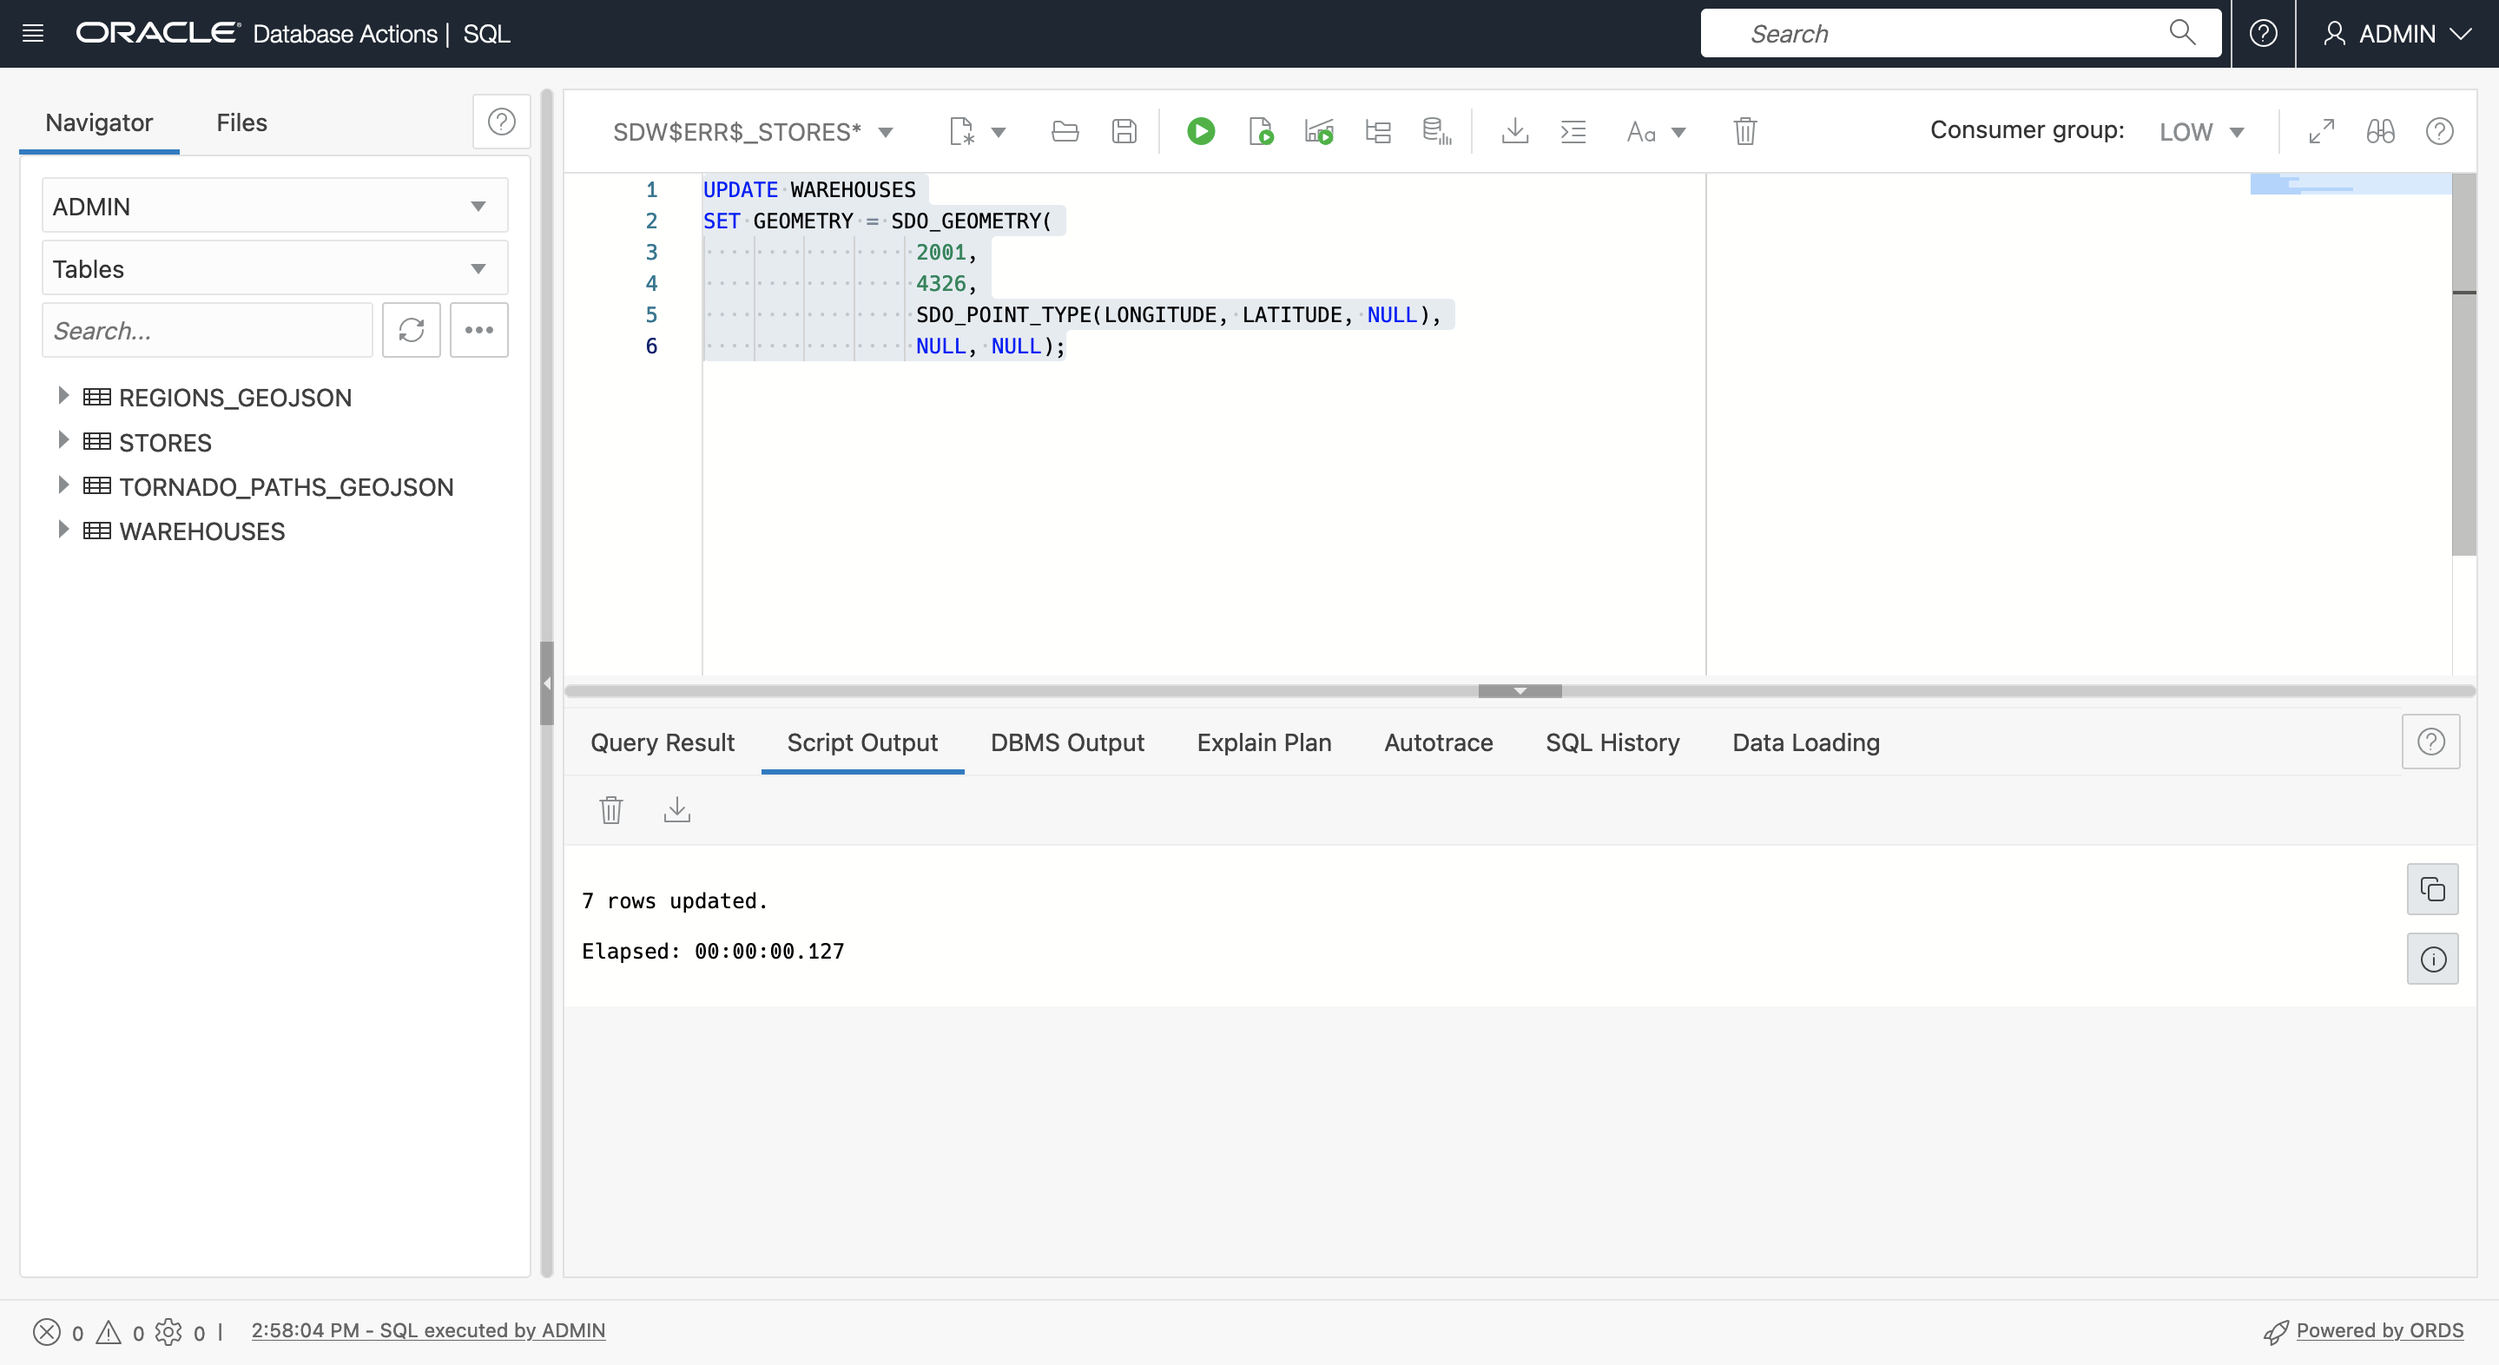
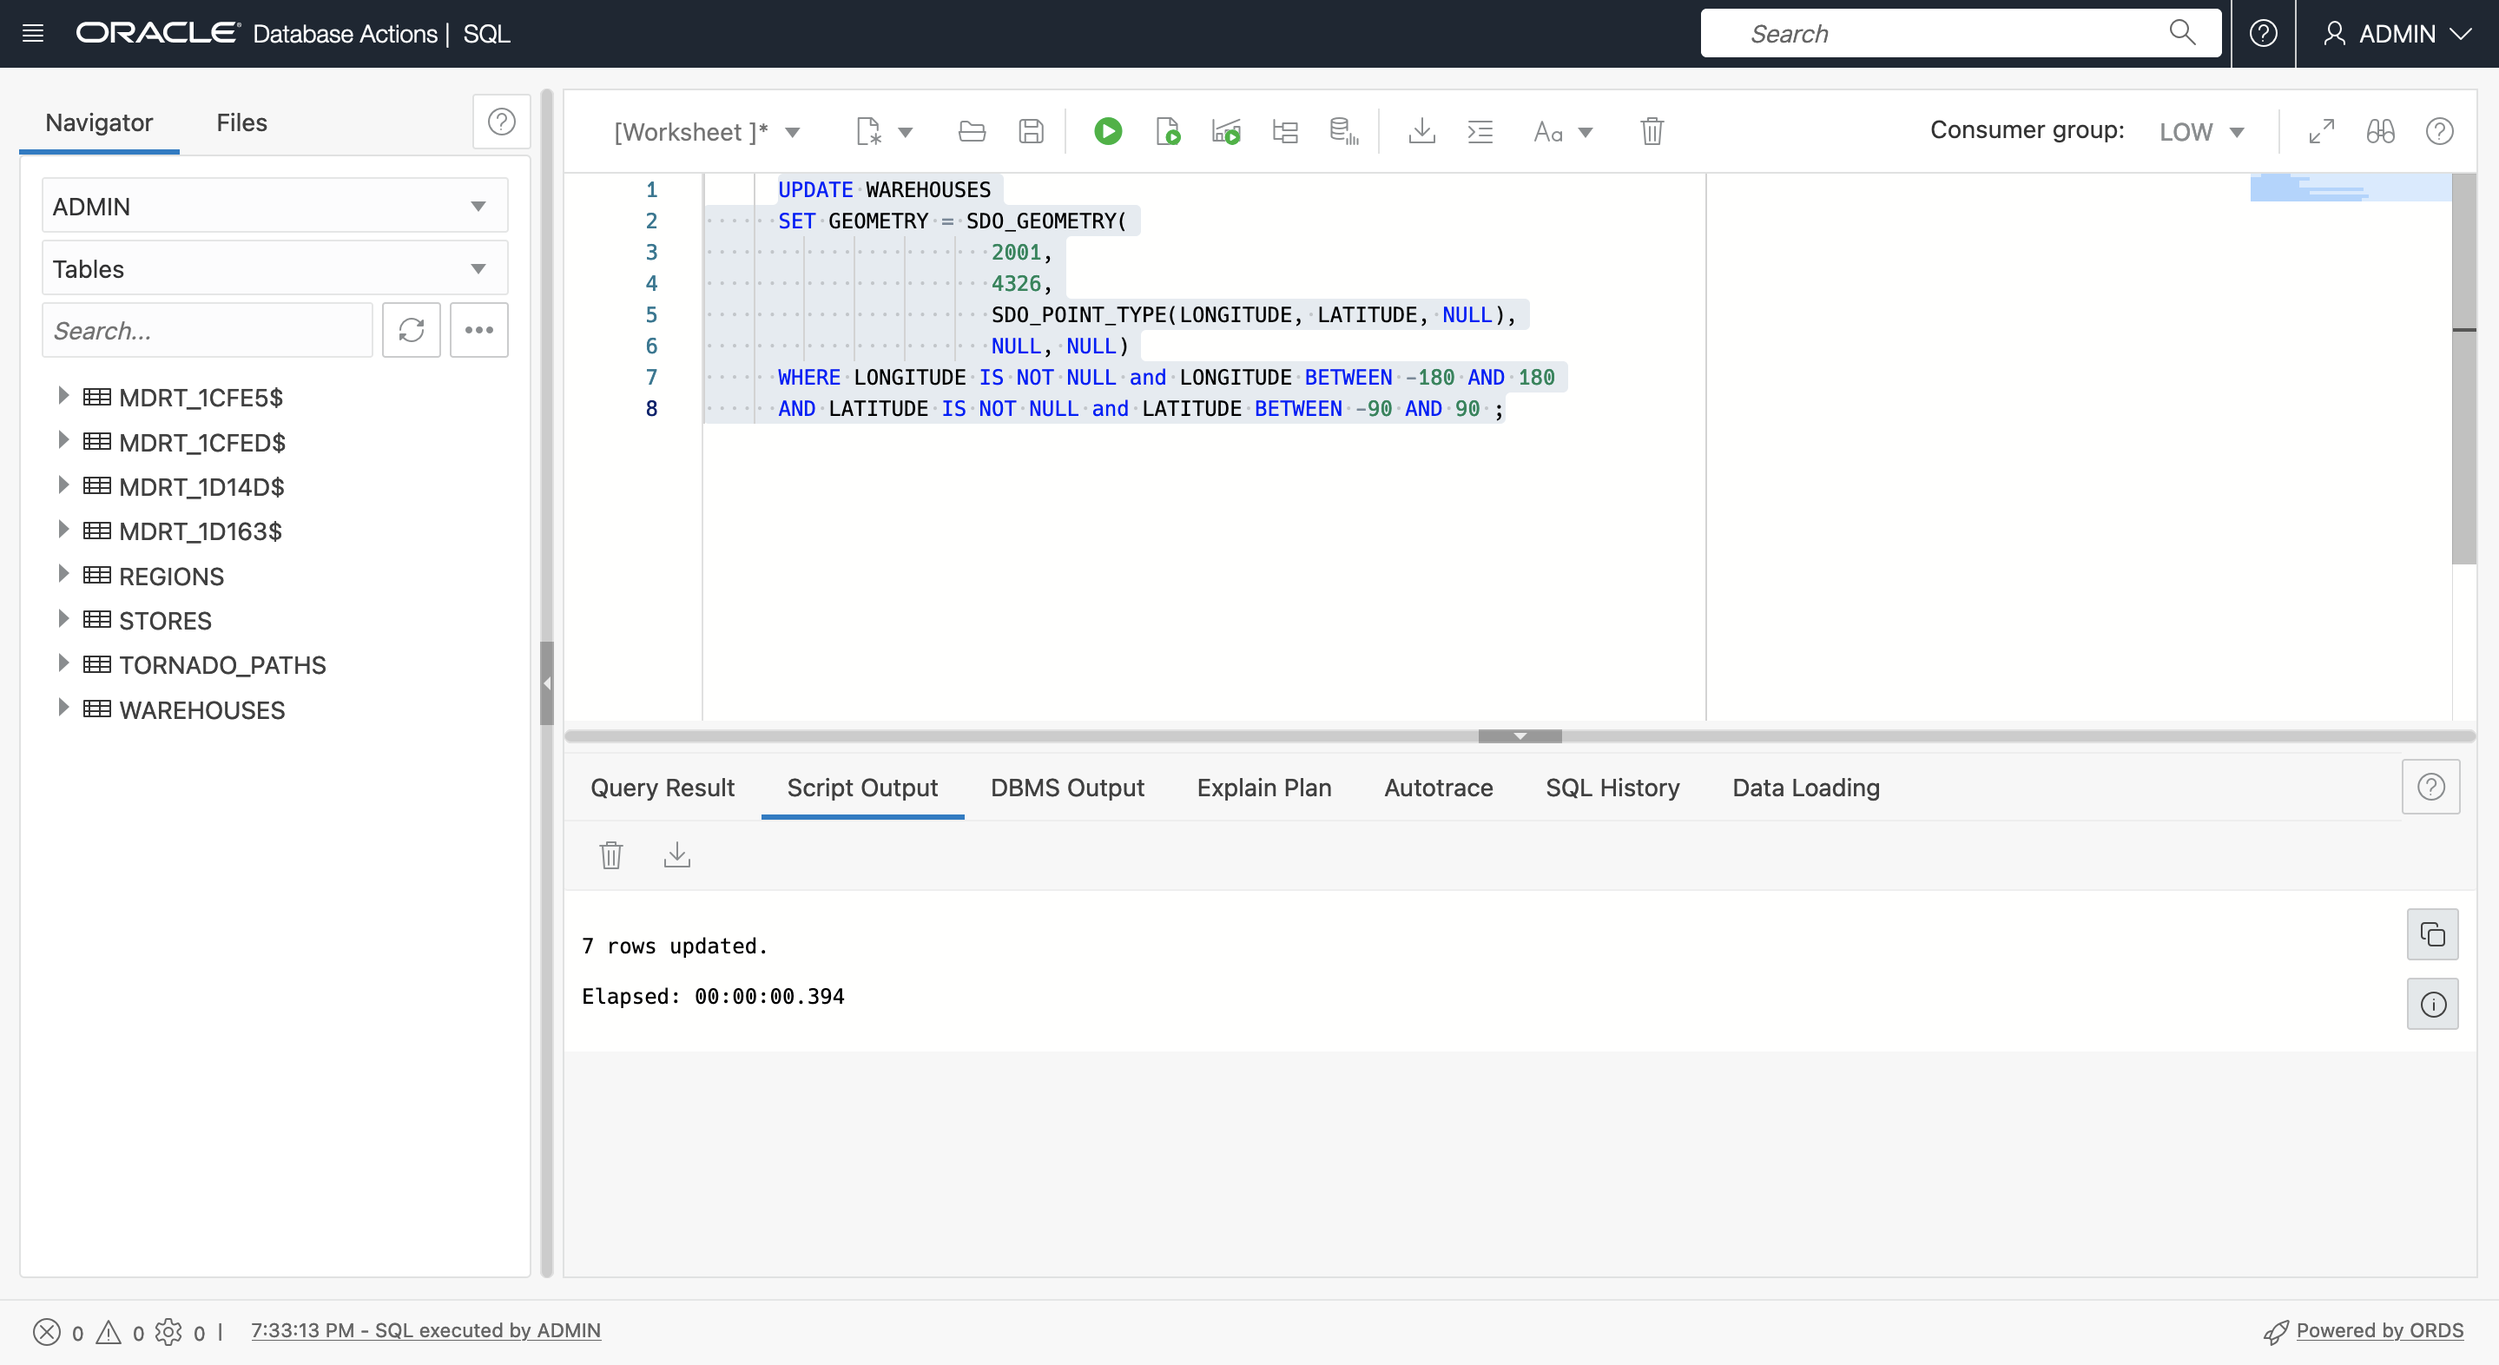
updates to create-data-adb
updates to create-data-adb

diff --git a/spatial/create-spatial-data-adb/create-spatial-data-adb.md b/spatial/create-spatial-data-adb/create-spatial-data-adb.md
@@ -74,8 +74,13 @@ SDO_GEOMETRY(
 )
 ```
 
+The general workflow for creating spatial data is to generate geometries and then create a spatial index for optimal performance. Prior to creating a spatial index, a row of spatial metadata is inserted which is used by the spatial index to ensure data consistency.
 
- Oracle Spatial also includes a set of built-in functions to convert between this native spatial data type and other common formats. One such common format is GeoJSON which is the most common format for  integration with developer client libraries.
+For point data, the most common scenario is to start with data including coordinates representing point locations. The data may be configured either by creating and populating a new geometry column (column with type SDO_GEOMETRY), or creating a function that creates geometries from coordinates, and then creating a spatial index on that function. Both options have their associated use cases, and you will use both methods to gain familiarity. 
+
+For lines and polygons, it is most common to load data from convert common formats (such as GeoJSON) to a table with a geometry column. You will do this for the regions and tornado paths.
+
+Oracle Spatial also includes a set of built-in functions to convert between this native spatial data type and other common formats. One such common format is GeoJSON which is the most common format for  integration with developer client libraries.
 
 
 ### Objectives
@@ -131,30 +136,30 @@ You begin by loading data for warehouses and stores from CSV files that include 
 
    ![Image alt text](images/create-data-00f.png)
 
-  These are the data that you will load, configure, and perform spatial analysis on. Once you have reviewed the maps you can close the tabs.
+  These are the data that you will load, configure, and perform spatial analysis on. Once you have reviewed the maps you can close the geojson.io tabs.
 
-   1. Next you load the files to database tables. Navigate to SQL Developer Web. From the action menu next to Search, select **Data Loading > Upload Data Into New Table** . 
+3. Next you load the files to database tables. Navigate to SQL Developer Web. From the action menu next to Search, select **Data Loading > Upload Data Into New Table** . 
    
    ![Image alt text](images/create-data-01.png)
 
-   1. Drag and drop **stores.csv** into the data loading region. You may also click **Select files** to navigate to the files.
+4. Drag and drop **stores.csv** into the data loading region.  (You may also click **Select files** to navigate to the files. If you do so then you will need to select the option to **Show all files**.)
    
    ![Image alt text](images/create-data-02.png)
 
-   1. Preview the data, observing that the data contains longitude, latitude coordinates for each store. Click **Next** to continue.
+5. Preview the data, observing that the data contains longitude, latitude coordinates for each store. Click **Next** to continue.
    
    ![Image alt text](images/create-data-03.png)
 
-   1. Update the column type for POSTAL_CODE to **VARCHAR2** and then click **Next** to continue.
+6. Update the column type for POSTAL_CODE to **VARCHAR2** and then click **Next** to continue.
    
    ![Image alt text](images/create-data-04.png)
 
   
-   1. Click **Finish**. The table will then be created.
+7. Click **Finish**. The table will then be created.
    
    ![Image alt text](images/create-data-05.png)
 
-   1.  Observe that data is loaded with no failed rows (i.e., no errors). SQL Developer Web automatically creates a table for each data load to store loading errors. In this workshop you can drop these tables since the data will load without errors.
+8.  Observe that data is loaded with no failed rows (i.e., no errors). SQL Developer Web automatically creates a table for each data load to store loading errors. In this workshop you can drop these tables since the data will load without errors.
 
    Enter and run following command to drop the errors table for STORES.
 
@@ -166,11 +171,11 @@ You begin by loading data for warehouses and stores from CSV files that include 
 
    ![Image alt text](images/create-data-06.png)
 
-11. Repeat the previous steps to upload **warehouses.csv**, accepting all defaults. Observe that the data contains longitude, latitude coordinates for each warehouse. 
+9. Repeat the previous steps to upload **warehouses.csv**, accepting all defaults. Observe that the data contains longitude, latitude coordinates for each warehouse. 
    
   ![Image alt text](images/create-data-07.png)
    
-2. When complete, observe there are no failed rows. 
+10. When complete, observe there are no failed rows. 
 
    Enter and run following command to drop the errors table for WAREHOUSES.
 
@@ -183,24 +188,24 @@ You begin by loading data for warehouses and stores from CSV files that include 
    ![Image alt text](images/create-data-08.png)
 
 
-   1. Repeat the data load process, this time loading the file **REGIONS.geojson**.
+11. Repeat the data load process, this time loading the file **REGIONS.geojson**.
 
       ![Image alt text](images/create-data-09.png)
 
 
-   2. Observe the data preview shows two columns, **type** and **features**. As a JSON format, GeoJSON is comprised of key:value pairs. Loading JSON from a SQL Worksheet in SQL Developer Web automatically creates columns for the top level keys. In the case of GeoJSON, the top level keys are **type** and **features**, where **features** contains ar array of all the individual spatial items.  Click **Next**.
+12. Observe the data preview shows two columns, **type** and **features**. As a JSON format, GeoJSON is comprised of key:value pairs. Loading JSON from a SQL Worksheet in SQL Developer Web automatically creates columns for the top level keys. In the case of GeoJSON, the top level keys are **type** and **features**, where **features** contains ar array of all the individual spatial items.  Click **Next**.
 
       ![Image alt text](images/create-data-10.png)
 
-   3. Rename from destination table from to **REGIONS_GEOJSON** since you will be converting this from a GeoJSON document to a table that you will name **REGIONS**.   Click **Next**.
+13. Rename from destination table from to **REGIONS_GEOJSON** since you will be converting this from a GeoJSON document to a table that you will name **REGIONS**.   Click **Next**.
 
       ![Image alt text](images/create-data-11.png)
 
-   1. Click **Finish** to create the table and load the GeoJSON content.   ...expand on this...   
+14. Click **Finish** to create the table and load the GeoJSON content.   ...expand on this...   
 
       ![Image alt text](images/create-data-12.png)
 
-   2. When complete, observe there are no failed rows. 
+15. When complete, observe there are no failed rows. 
 
       Enter and run following command to drop the errors table for REGIONS_GEOJSON.
 
@@ -211,15 +216,15 @@ You begin by loading data for warehouses and stores from CSV files that include 
       ```
       ![Image alt text](images/create-data-13.png)
 
-   3. Next load **TORNADO_PATHS.geojson**.
+16. Next load **TORNADO_PATHS.geojson**.
       
       ![Image alt text](images/create-data-14.png)
 
-   4. Change the destination table name to **TORNADO\_PATHS\_GEOJSON**. 
+17. Change the destination table name to **TORNADO\_PATHS\_GEOJSON**. 
       
        ![Image alt text](images/create-data-15.png)
       
-   5. When complete, observe there are no failed rows. 
+18. When complete, observe there are no failed rows. 
 
       Enter and run following command to drop the errors table for REGIONS_GEOJSON.
 
@@ -231,16 +236,16 @@ You begin by loading data for warehouses and stores from CSV files that include 
 
       ![Image alt text](images/create-data-16.png)
 
-   6.  All 4 tables are now created and ready to be configured for Spatial. 
+19.  All 4 tables are now created and ready to be configured for Spatial. 
       
      ![Image alt text](images/create-data-17.png)
    
 
 ## Task 2: Configure Warehouses Table using Geometry Column
 
-Next ......
+Next you configure the WAREHOUSES table for Spatial by generating a geometry column from the coordinate columns.
 
-1. ...
+1. Begin by adding a geometry column (column with type SDO_GEOMETRY).
    
       ```
       <copy> 
@@ -252,7 +257,7 @@ Next ......
 
    ![Image alt text](images/create-data-18.png)
 
-2.  ... include check for valid coordinates...
+2.  Next, populate the geometry column for rows with valid coordinates (all of the rows in this case).
 
       ```
       <copy> 
@@ -261,28 +266,32 @@ Next ......
                        2001,
                        4326,
                        SDO_POINT_TYPE(LONGITUDE, LATITUDE, NULL),
-                       NULL, NULL);
+                       NULL, NULL)
+      WHERE LONGITUDE IS NOT NULL 
+      AND LONGITUDE BETWEEN -180 AND 180
+      AND LATITUDE IS NOT NULL 
+      AND LATITUDE BETWEEN -90 AND 90 ;
       </copy>
       ```
 
    ![Image alt text](images/create-data-19.png)
 
-3.  ...
+3.  Insert spatial metadata for the WAREHOUSES table.
 
       ```
       <copy> 
         INSERT INTO USER_SDO_GEOM_METADATA VALUES (
-            'WAREHOUSES',
-            'GEOMETRY',
+            'WAREHOUSES',  -- table name
+            'GEOMETRY',    -- geometry column name
             SDO_DIM_ARRAY(SDO_DIM_ELEMENT('X', 0, 0, 0.005),
                           SDO_DIM_ELEMENT('Y', 0, 0, 0.005)),
-            4326
+            4326           -- indicates longitude/latitude coordinates
         );
       </copy>
       ```
    ![Image alt text](images/create-data-20.png)
 
-3.  ...
+3. Finally, create a spatial index for the WAREHOUSES table.
 
       ```
       <copy> 
@@ -297,8 +306,7 @@ Next ......
    ![Image alt text](images/create-data-21.png)
 
 
-3.  ...MDRT tables...
-
+3.  After creating the spatial index, refresh the table listing. Creating a spatial index automatically creates a special system-managed table with a name having the format **MDRT_xxxx$**. Such tables are managed entirely by Spatial to support spatial indexes and should never be manually dropped. For database users they should be ignored.
       
    ![Image alt text](images/create-data-21a.png)
 
@@ -306,63 +314,74 @@ Next ......
 
 ## Task 3: Configure Stores Table using Function-based Spatial Index
 
-Next ......
+Next you configure the STORES table for Spatial. You could repeat the previous steps to create and index a new geometry column. Instead you will create a "function-based spatial index". With a function-based spatial index, instead of indexing a geometry column, you instead index geometries returned by a function. The benefit of this approach is that a new geometry column does not need to be added. For scenarios where adding a column is impractical or not desirable, this is the preferred approach.  Details can be found [here](https://docs.oracle.com/en/database/oracle/oracle-database/19/spatl/extending-spatial-indexing.html#GUID-CFB6B6DB-4B97-43D1-86A1-21C1BA853089).
 
-3.  ... ... include check for valid coordinates...
-
+1. The first step is to create a generic function that accepts coordinates and returns a geometry (i.e., a SDO\_GEOMETRY value). The function includes criteria so that a result is only returned for valid input coordinates.
+   
       ```
       <copy>
-        CREATE OR REPLACE FUNCTION GET_GEOMETRY (
+      CREATE OR REPLACE FUNCTION GET_GEOMETRY (
             IN_LONGITUDE NUMBER,
             IN_LATITUDE  NUMBER
         ) RETURN SDO_GEOMETRY
             DETERMINISTIC PARALLEL_ENABLE
         IS
         BEGIN
+         IF (IN_LONGITUDE IS NOT NULL 
+            AND IN_LONGITUDE BETWEEN -180 AND 180
+            AND IN_LATITUDE IS NOT NULL 
+            AND IN_LATITUDE BETWEEN -90 AND 90)
+         THEN
           RETURN 
             SDO_GEOMETRY(
               2001, 
               4326, 
               SDO_POINT_TYPE(IN_LONGITUDE, IN_LATITUDE, NULL), 
               NULL, NULL);
+          ELSE RETURN NULL;
+          END IF;
         END;
         /
       </copy>
       ```
      ![Image alt text](images/create-data-22.png)
 
-3.  ... ...change this to an object method...
+2.  Next, test the function using the STORES table. Since SQL Worksheet does not display object types such as SDO\_GEOMETRY in query results, call the function inside a call to convert the result to a GeoJSON string .
 
       ```
       <copy>
         SELECT
             SDO_UTIL.TO_GEOJSON(
-                 GET_GEOMETRY(-90.123, 30.456)
-                 )
+                GET_GEOMETRY(LONGITUDE, LATITUDE))
         FROM
-            DUAL;
+            STORES
+        WHERE 
+             ROWNUM<10;
       </copy>
       ```
 
-   ![Image alt text](images/create-data-23.png)
+       ![Image alt text](images/create-data-23.png)
 
-3.  ...
+   Instead of creating and indexing a new geometry column in the STORES table, you will create an index on the values returned by the GET\_GEOMETRY function for the STORES table.
+
+
+3.  Before creating a spatial index, a row of spatial metadata is inserted.  In the case of a function-based spatial index, instead of a geometry column name you insert the function call. Insert spatial metadata for the STORES table using the GET\_GEOMETRY function. The function must be prepended with the owner name, in this case ADMIN.
 
       ```
       <copy>
           INSERT INTO USER_SDO_GEOM_METADATA VALUES (
-            'STORES',
-            'ADMIN.GET_GEOMETRY(LONGITUDE,LATITUDE)',
+            'STORES',  -- table name
+            'ADMIN.GET_GEOMETRY(LONGITUDE,LATITUDE)', -- function returning geometry
             SDO_DIM_ARRAY(SDO_DIM_ELEMENT('X', 0, 0, 0.005),
                           SDO_DIM_ELEMENT('Y', 0, 0, 0.005)),
-            4326
+            4326  -- indicates longitude/latitude coordinates
         );
       </copy>
       ```
 
    ![Image alt text](images/create-data-24.png)
 
-3.  ...
+4.  Finally create the spatial index. In the case of a function-based spatial index, the "column" being indexed is actually the call to the GET\_GEOMETRY function.
 
       ```
       <copy>
